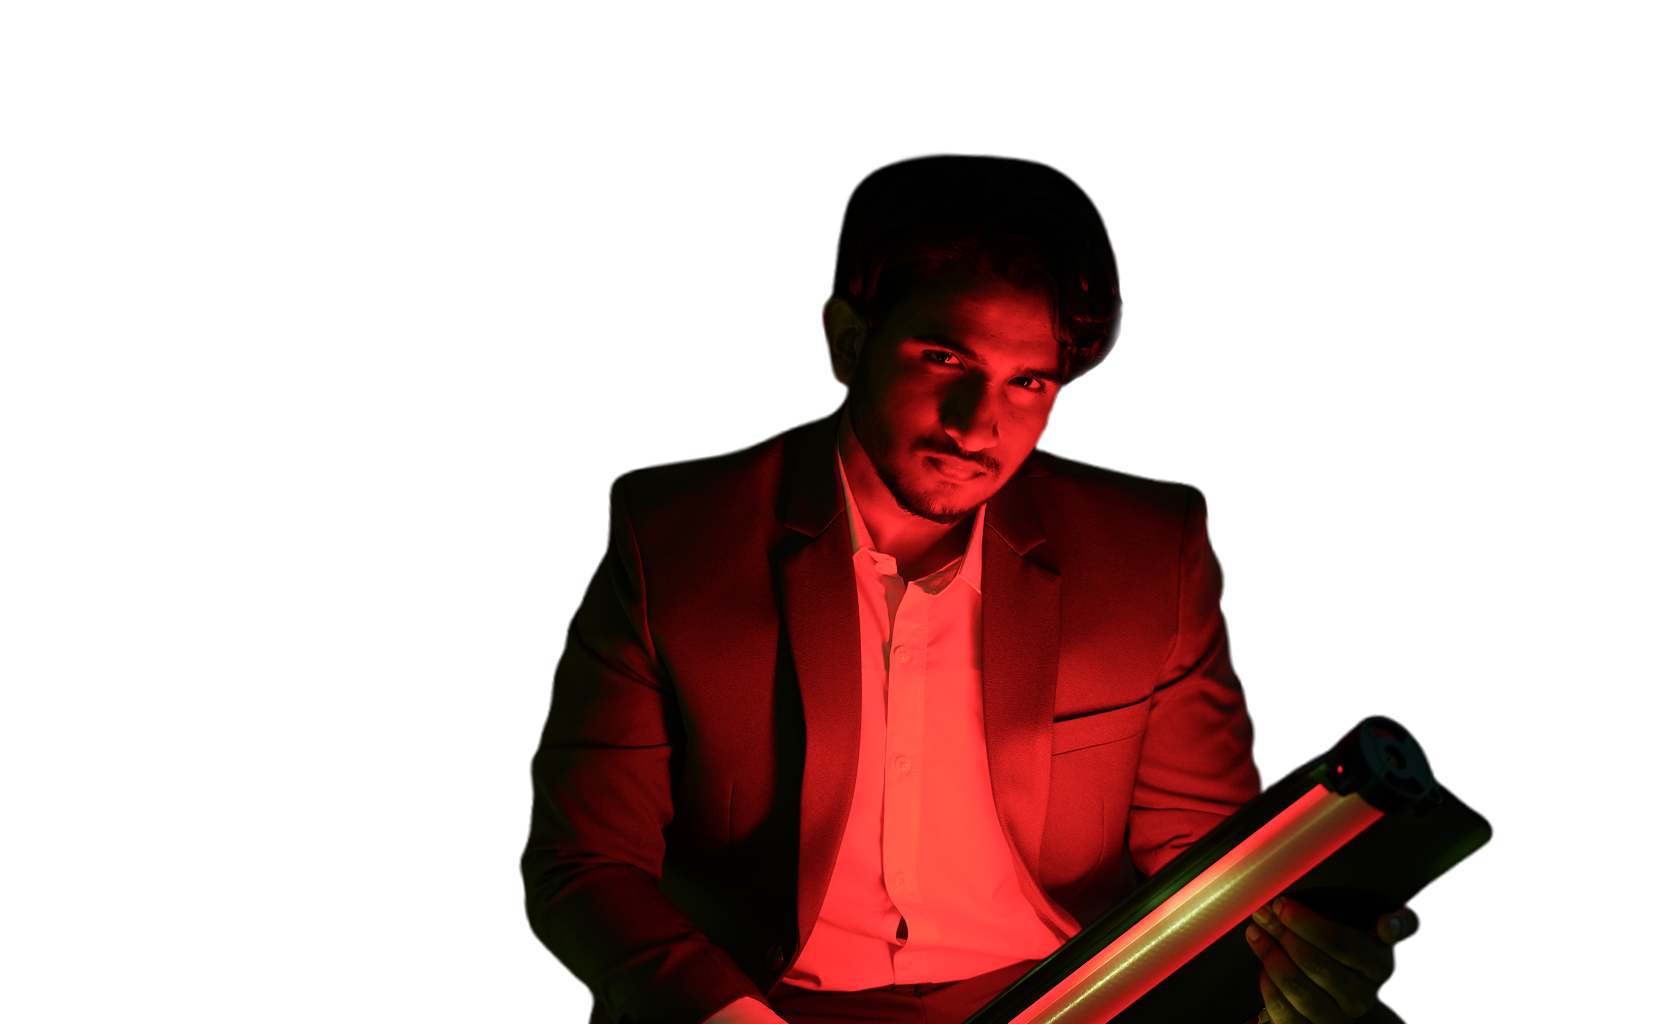
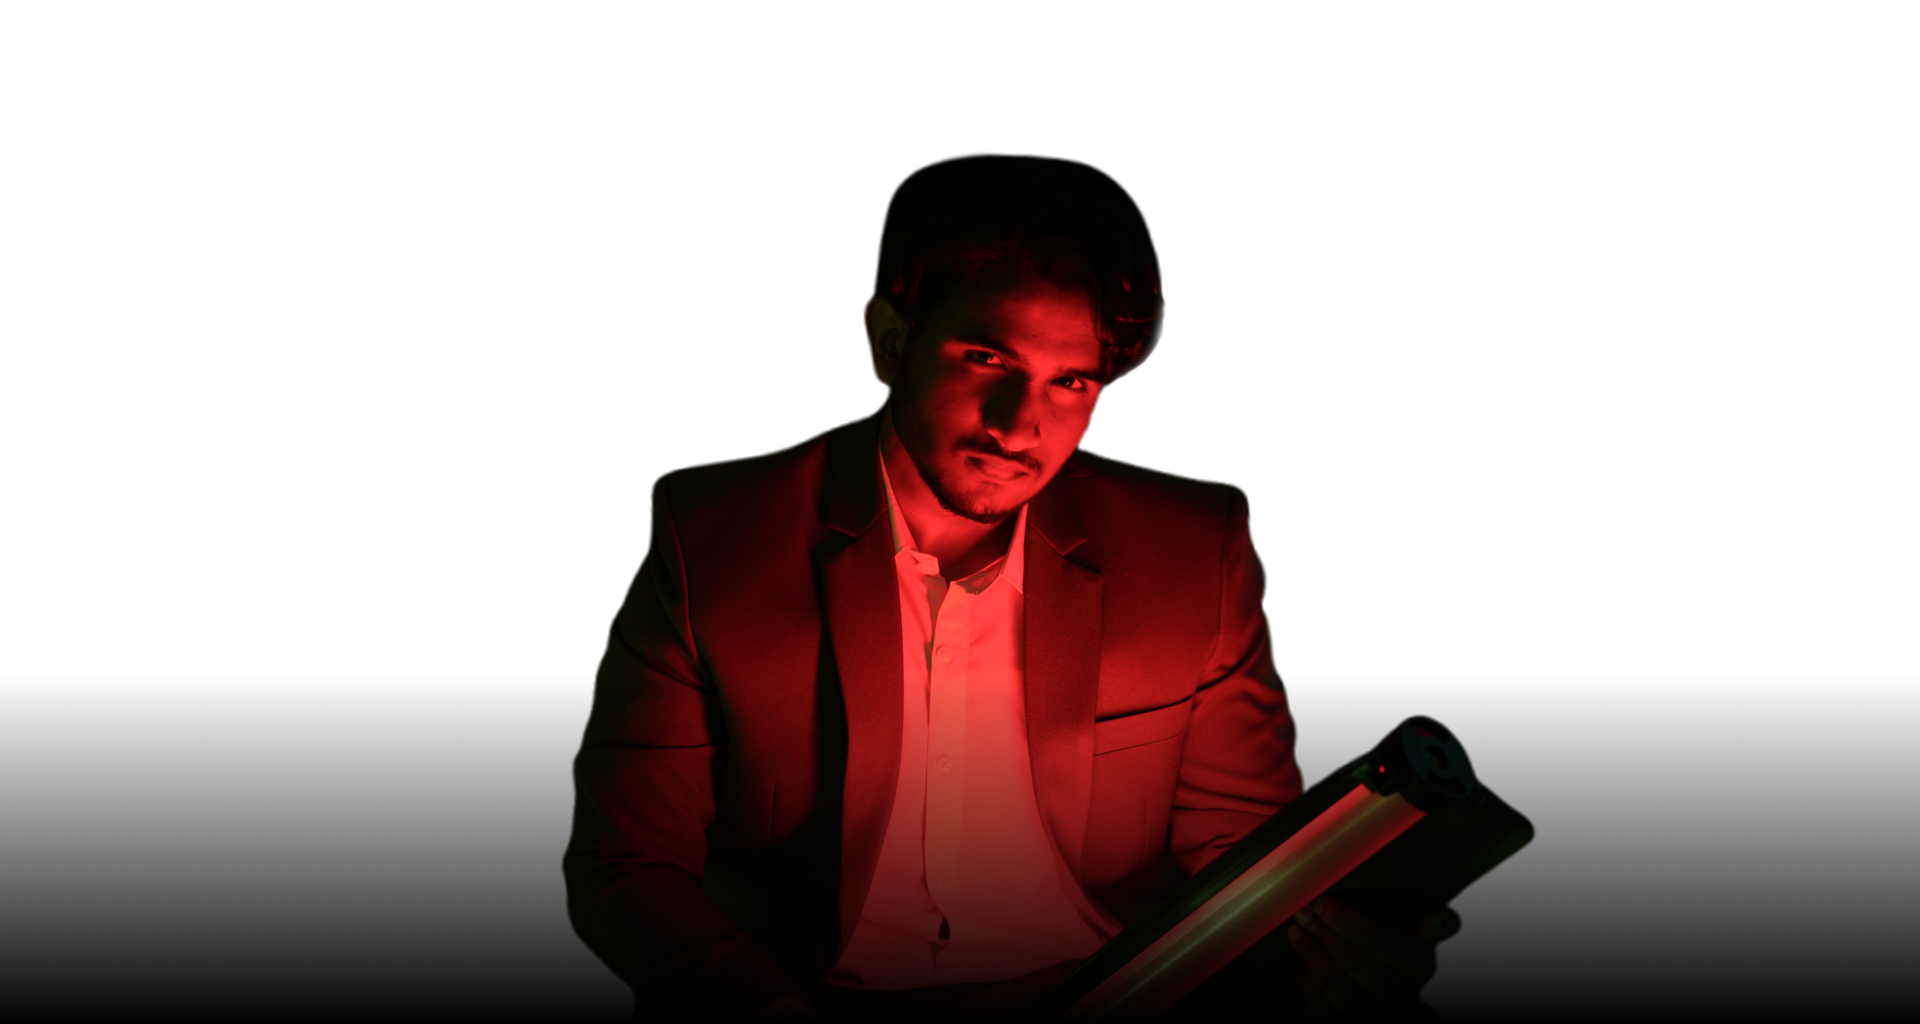
hero section

diff --git a/components/about-us/hero/AboutHero.tsx b/components/about-us/hero/AboutHero.tsx
@@ -3,31 +3,49 @@ import Image from "next/image";
 
 const AboutHero: React.FC = () => {
   return (
-    <section className="flex flex-col lg:flex-row items-center mb-20">
-      <div className="w-full lg:w-1/2 mb-10 lg:mb-0">
-        <h1 className="text-7xl md:text-9xl font-bold mb-8">SHAMRAT</h1>
-        <div className="mb-4">
-          <h2 className="text-2xl font-medium mb-1">Founder</h2>
-          <p className="text-gray-400">SS Media</p>
-        </div>
+    <section
+      className="relative max-h-[1024px] flex items-center justify-center text-white"
+      style={{ height: "100vh" }}
+    >
+      {/* Background Image */}
+      <div className="absolute inset-0 -z-10">
+        <Image
+          src="/images/team/hero.png"
+          alt="Founder"
+          layout="fill"
+          className="fixed object-fit cover"
+        />
+        <div className="absolute inset-0 bg-black/5"></div>
       </div>
-      <div className="w-full lg:w-1/2 relative">
-        <div className="relative h-96 w-full overflow-hidden rounded-lg">
-          <div className="absolute inset-0 bg-gradient-to-r from-red-500/20 to-transparent z-10"></div>
-          <Image
-            src="/images/team/hero.png"
-            alt="Founder"
-            layout="fill"
-            objectFit="cover"
-            className="z-0"
-          />
+
+      {/* Content */}
+      <div className="container mx-auto px-4 text-center lg:text-left">
+        {/* Centered Name and Title */}
+        <div className="absolute top-[144px] left-1/2 transform -translate-x-1/2 text-center">
+          <h1 className="text-7xl md:text-[250px] leading-[125px] syne-unique max-w-[1433px] font-bold mb-4">
+            SHAMRAT
+          </h1>
         </div>
-        <div className="absolute top-6 right-6 bg-black/80 p-6 max-w-xs z-20">
-          <h3 className="text-xl font-bold mb-2">FROM IDEA TO IMPACT</h3>
-          <p className="text-sm text-gray-300">
-            From Stunning Thumbnails To Sleek Interfaces, We Craft Digital
-            Content That Connects, Converts, And Leaves A Lasting Mark.
-          </p>
+
+        {/* Side Texts */}
+        <div className="flex justify-between items-center mt-20">
+          <div className="max-w-sm">
+            <h2 className="text-2xl max-w-[470px] md:text-[35px] font-bold syne-unique mb-2">
+              Founder
+            </h2>
+            <p className="text-[24px] leading-tight tracking-tight text-white/70">
+              SS Media
+            </p>
+          </div>
+          <div className="max-w-[470px] text-left">
+            <h2 className="text-2xl max-w-[470px] md:text-[35px] font-bold syne-unique mb-2">
+              FROM IDEA TO IMPACT
+            </h2>
+            <p className="text-[24px] leading-tight tracking-tight text-white/70">
+              From Stunning Thumbnails To Sleek Interfaces, We Craft Digital
+              Content That Connects, Converts, And Leaves A Lasting Mark.
+            </p>
+          </div>
         </div>
       </div>
     </section>

diff --git a/app/(pages)/about-us/page.tsx b/app/(pages)/about-us/page.tsx
@@ -5,7 +5,7 @@ import React from "react";
 
 export default function Page() {
   return (
-    <div className="bg-[#141313]">
+    <div className="bg-transparent">
       <AboutHero />
       <Journey />
       <OurTeam />
